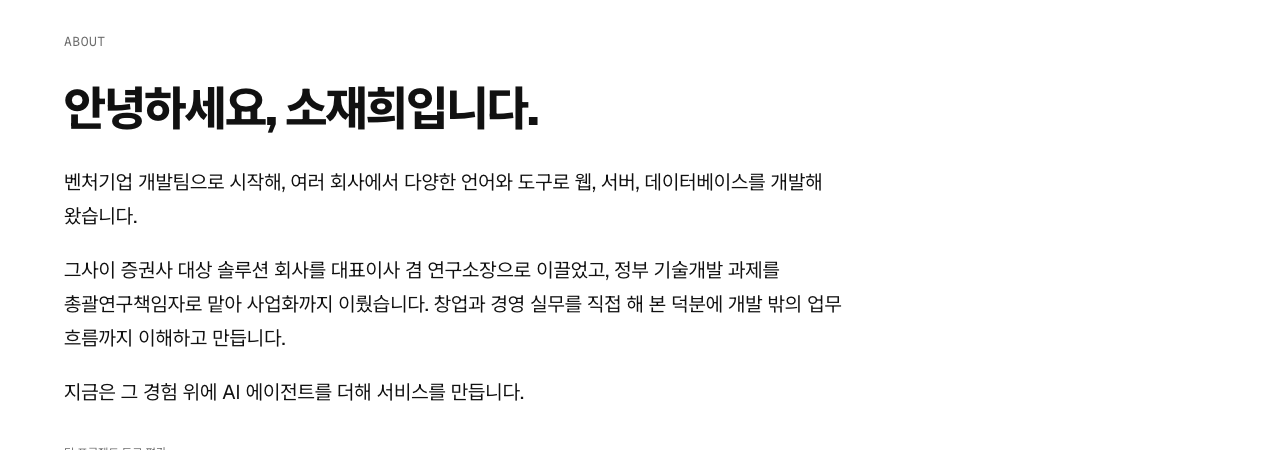
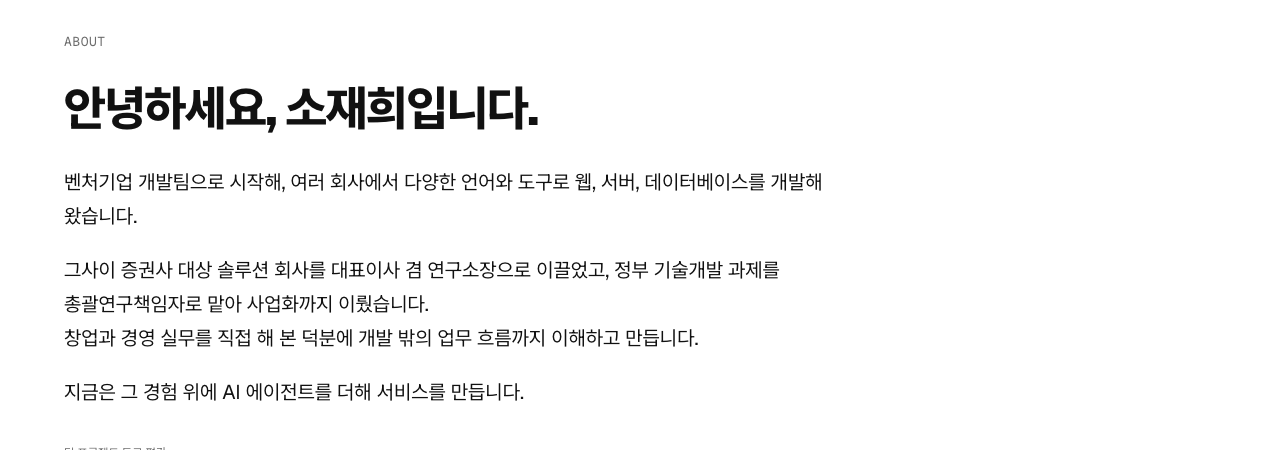
docs: record the about line break rule

Changed region(s): [[0.0312, 0.6533, 0.6562, 0.7778]]

diff --git a/docs/02-ia.md b/docs/02-ia.md
@@ -97,7 +97,7 @@
 |---|---|
 | 메시지 | 누가 만들었는지 짧게 |
 | 사실과 출처 | 이력서 첫 줄(한 줄 소개)과 자기소개(대표이사 겸 연구소장, 정부 기술개발 과제 총괄연구책임자와 사업화), 포트폴리오 "5. 협업 - 동료 평가" |
-| 문구 초안 | 제목 "안녕하세요, 소재희입니다." · 소개 세 문단 "벤처기업 개발팀으로 시작해, 여러 회사에서 다양한 언어와 도구로 웹, 서버, 데이터베이스를 개발해 왔습니다." / "그사이 증권사 대상 솔루션 회사를 대표이사 겸 연구소장으로 이끌었고, 정부 기술개발 과제를 총괄연구책임자로 맡아 사업화까지 이뤘습니다. 창업과 경영 실무를 직접 해 본 덕분에 개발 밖의 업무 흐름까지 이해하고 만듭니다." / "지금은 그 경험 위에 AI 에이전트를 더해 서비스를 만듭니다."(2026-10-28, 문단은 생각 하나씩: 개발 경력, 경영 경험과 그 덕분에 얻은 것, 지금. 문단 사이 1rem, 데스크톱 1.25rem. 캡처는 [docs/design/about-paragraphs/](design/about-paragraphs/)) · 팀 프로젝트 동료 평가 세 문장 · "이력서 보기", 이메일, GitHub |
+| 문구 초안 | 제목 "안녕하세요, 소재희입니다." · 소개 세 문단 "벤처기업 개발팀으로 시작해, 여러 회사에서 다양한 언어와 도구로 웹, 서버, 데이터베이스를 개발해 왔습니다." / "그사이 증권사 대상 솔루션 회사를 대표이사 겸 연구소장으로 이끌었고, 정부 기술개발 과제를 총괄연구책임자로 맡아 사업화까지 이뤘습니다. 창업과 경영 실무를 직접 해 본 덕분에 개발 밖의 업무 흐름까지 이해하고 만듭니다." / "지금은 그 경험 위에 AI 에이전트를 더해 서비스를 만듭니다."(2026-10-28, 문단은 생각 하나씩: 개발 경력, 경영 경험과 그 덕분에 얻은 것, 지금. 문단 사이 1rem, 데스크톱 1.25rem. 문단 안에서 문장은 줄을 바꿔 시작하므로 둘째 문단은 "창업과" 앞에서 줄을 바꿉니다. 캡처는 [docs/design/about-paragraphs/](design/about-paragraphs/)) · 팀 프로젝트 동료 평가 세 문장 · "이력서 보기", 이메일, GitHub |
 | 움직임 | 없음 |
 
 연도와 과제 번호는 넣지 않습니다. 사진은 넣지 않습니다. 첫 화면이 글자와 도형만으로 된 구성이기 때문입니다.
